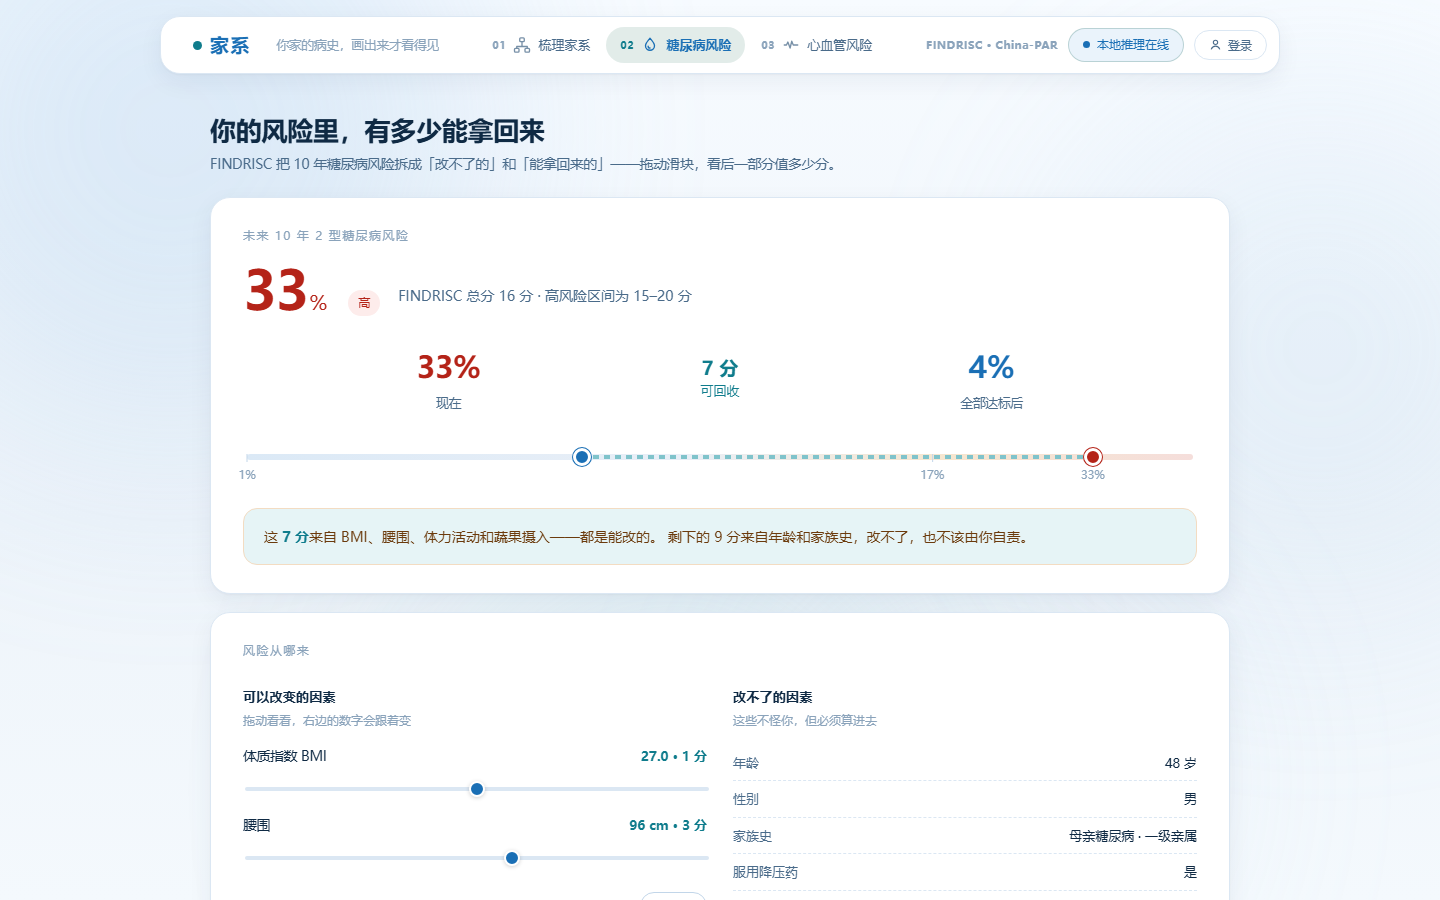
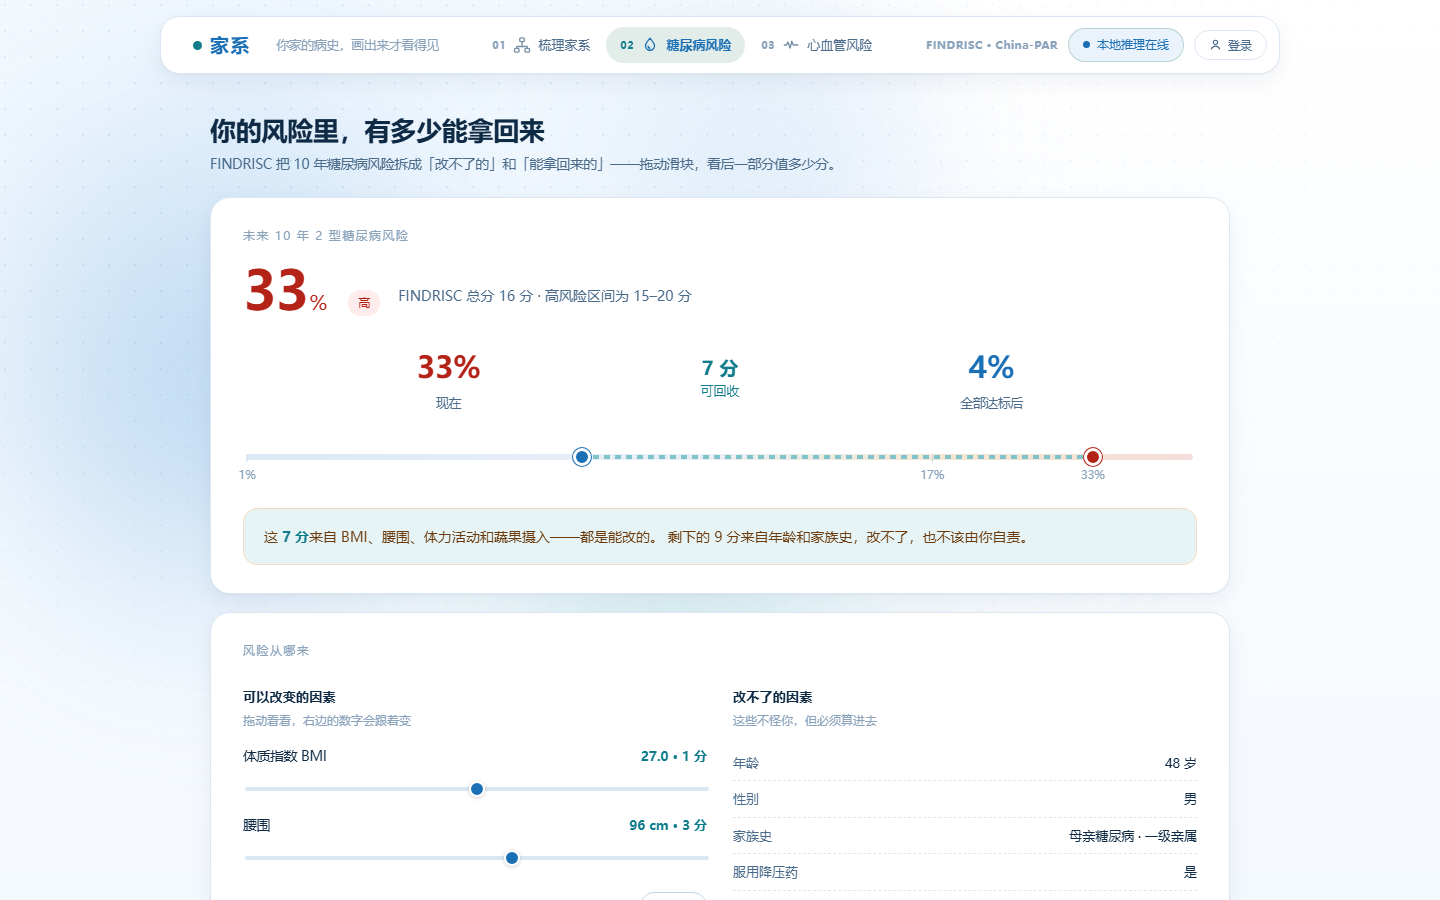
style(theme): 全站统一底景——各页面改用登录页那套背景（不含 DNA）
把 .bg-scene（AppShell 里的全站底景）换成登录页同款：
- 底色：左上角 1200×680 的浅蓝径向光 + 白→#f4f9fe 竖向渐变；
- 四个模糊 72px 的光斑（蓝 / 青 / 浅蓝），复用 blob-drift-1/2/3 关键帧，
  周期 34s / 46s / 40s / 52s 互不同步；
- 点阵层 .bg-scene::after 复用 grid-drift，26s 平移一格；
- reduced-motion 下全部静止。

登录页自身的 aurora/grid 保持不变（视觉一致），其余页面现在共用这套底景。
同步重截 README 中 02/03/04 三张截图。
tsc 0 错误，106 测试通过。

Changed region(s): [[0.0938, 0.3733, 0.1562, 0.56]]

diff --git a/app/globals.css b/app/globals.css
@@ -4541,3 +4541,67 @@ input[type="range"]::-moz-range-thumb {
   visibility: hidden;
   transition: opacity 0.4s ease;
 }
+
+/* ---------- 全站统一底景：与登录页同款（渐变 + 漂移光斑 + 点阵），不含 DNA ---------- */
+.bg-scene {
+  background:
+    radial-gradient(1200px 680px at 18% 12%, #eaf4fd 0%, rgba(234, 244, 253, 0) 62%),
+    linear-gradient(180deg, #ffffff 0%, #f4f9fe 100%);
+}
+
+.blob {
+  filter: blur(72px);
+  opacity: 0.72;
+}
+
+.blob-1 {
+  width: 46vw;
+  height: 46vw;
+  left: -8vw;
+  top: 6vh;
+  background: radial-gradient(circle, rgba(138, 188, 232, 0.85) 0%, rgba(138, 188, 232, 0) 68%);
+  animation: blob-drift-1 34s ease-in-out infinite;
+}
+
+.blob-2 {
+  width: 38vw;
+  height: 38vw;
+  right: -6vw;
+  bottom: -10vh;
+  background: radial-gradient(circle, rgba(112, 200, 210, 0.6) 0%, rgba(112, 200, 210, 0) 66%);
+  animation: blob-drift-2 46s ease-in-out infinite;
+}
+
+.blob-3 {
+  width: 30vw;
+  height: 30vw;
+  left: 38%;
+  top: -6vh;
+  background: radial-gradient(circle, rgba(176, 208, 240, 0.6) 0%, rgba(176, 208, 240, 0) 70%);
+  animation: blob-drift-3 40s ease-in-out infinite;
+}
+
+.blob-4 {
+  width: 26vw;
+  height: 26vw;
+  right: 18%;
+  top: 22vh;
+  background: radial-gradient(circle, rgba(196, 222, 245, 0.5) 0%, rgba(196, 222, 245, 0) 70%);
+  animation: blob-drift-1 52s ease-in-out infinite reverse;
+}
+
+/* 点阵层：与登录页同一个 keyframes */
+.bg-scene::after {
+  content: "";
+  position: absolute;
+  inset: -60px;
+  background-image: radial-gradient(rgba(26, 111, 181, 0.12) 1px, transparent 1px);
+  background-size: 26px 26px;
+  -webkit-mask-image: radial-gradient(120% 90% at 22% 20%, #000 0%, rgba(0, 0, 0, 0.35) 52%, transparent 80%);
+  mask-image: radial-gradient(120% 90% at 22% 20%, #000 0%, rgba(0, 0, 0, 0.35) 52%, transparent 80%);
+  animation: grid-drift 28s linear infinite;
+}
+
+@media (prefers-reduced-motion: reduce) {
+  .blob, .bg-scene::after { animation: none; }
+}
